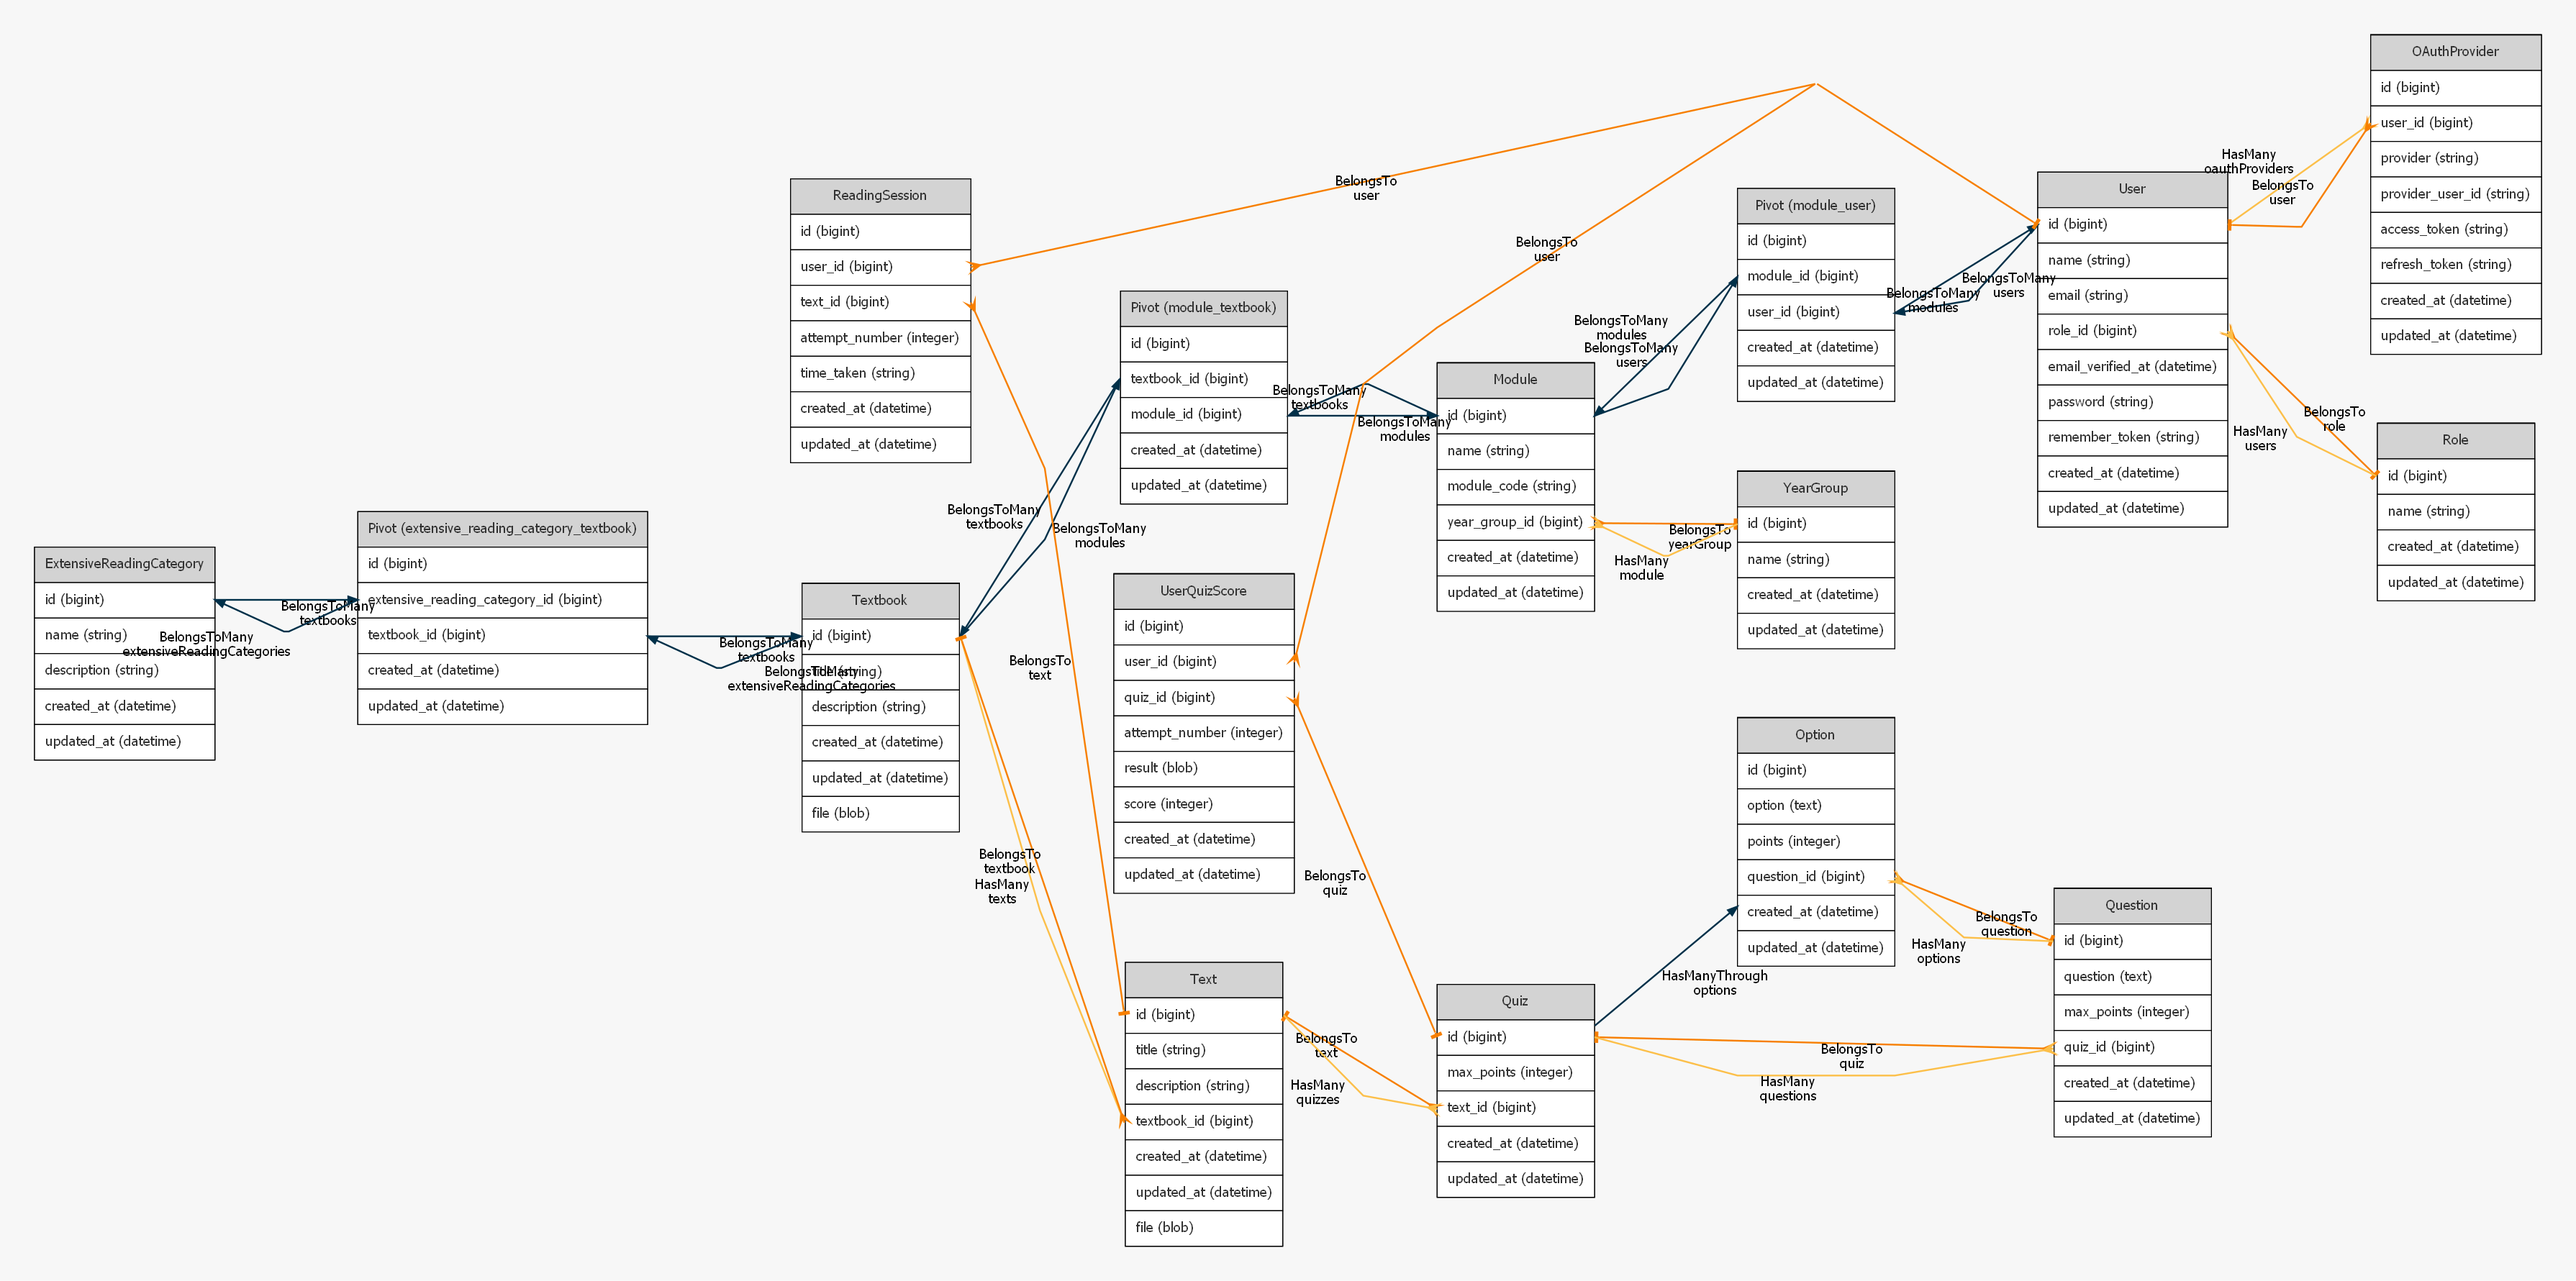
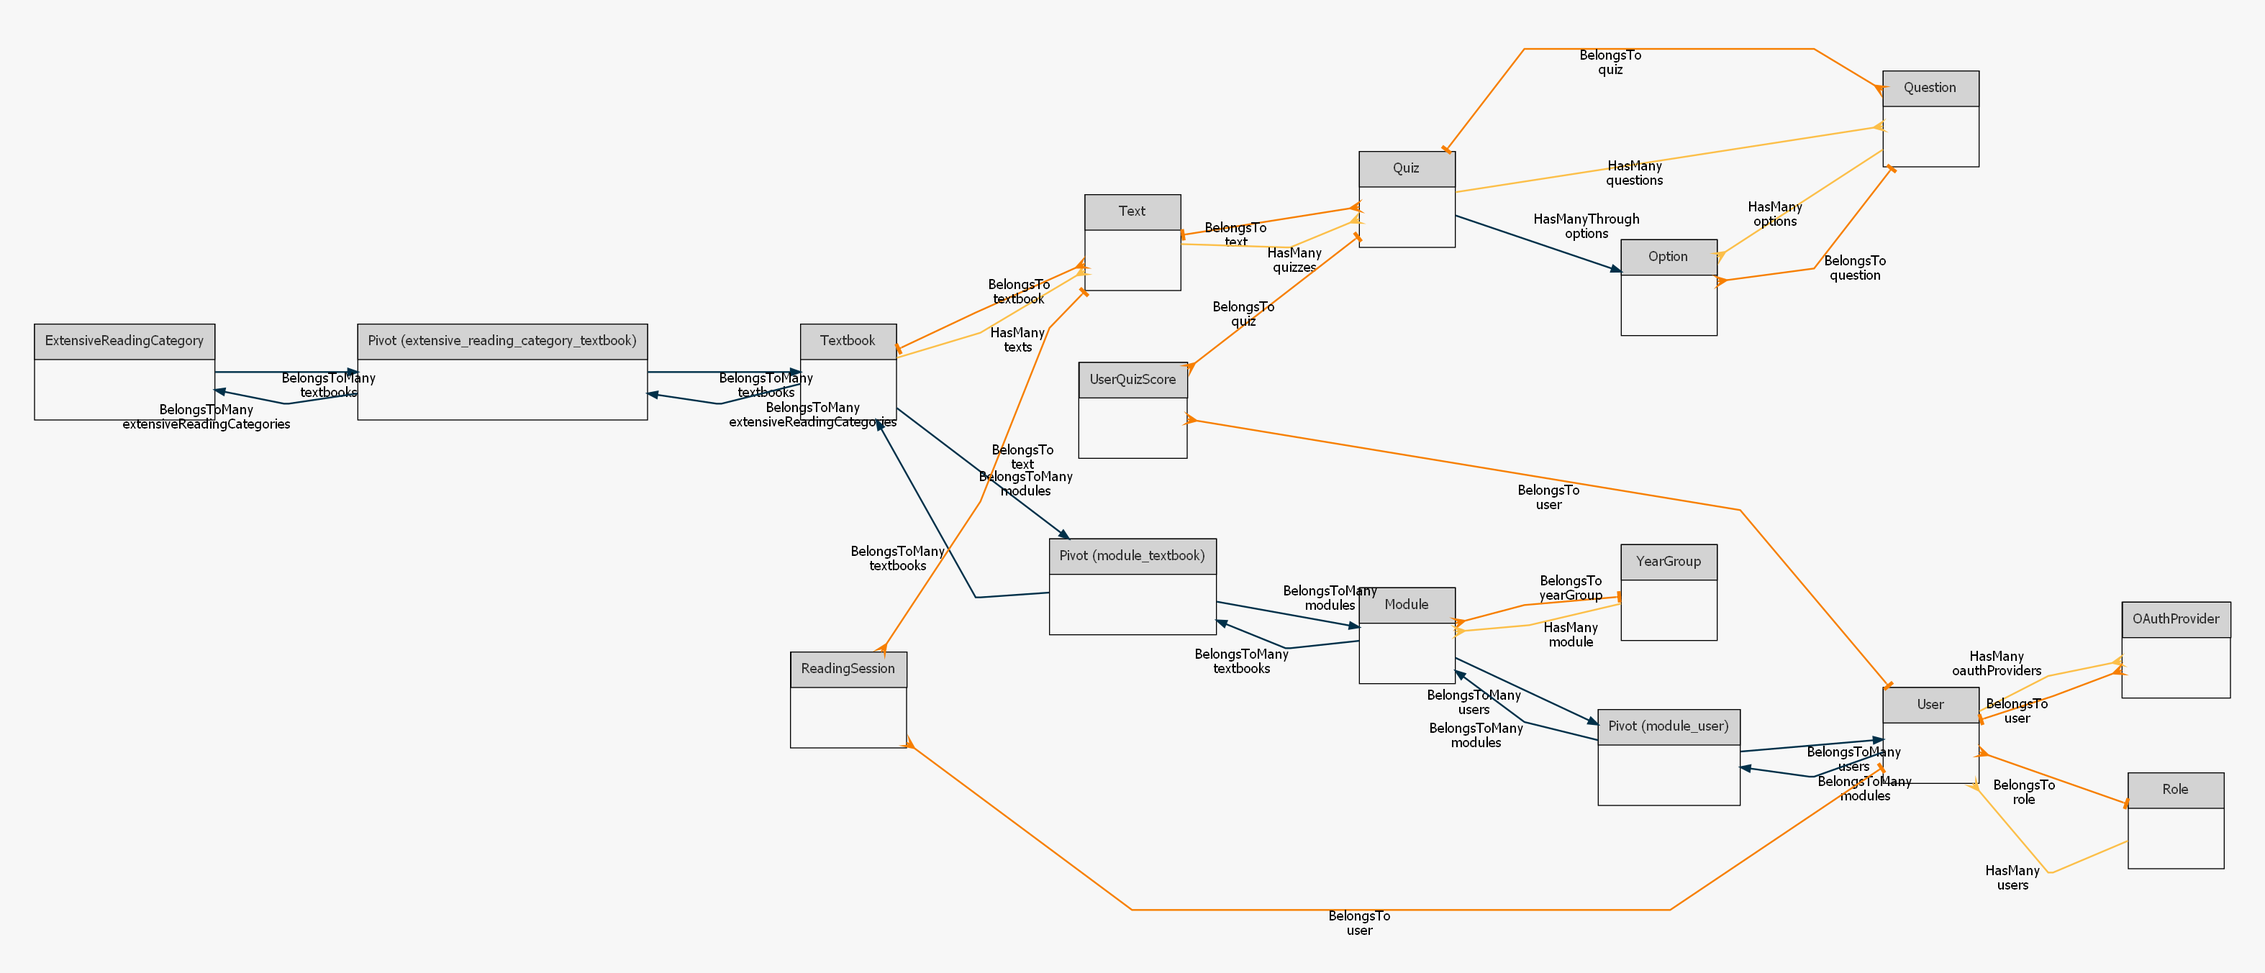
Added ERD diagram and improve table responsiveness and quiz id not shown in url

diff --git a/resources/js/pages/readingQuizScores.vue b/resources/js/pages/readingQuizScores.vue
@@ -15,7 +15,7 @@
                 </option>
             </select>
             </div>
-            <table class="table table-responsive">
+            <table class="table table-responsive-lg">
                 <thead>
                 <tr>
                     <th scope="col" v-if="role==='Admin' || role==='Module Tutor'">Student</th>
@@ -59,7 +59,7 @@
                     </option>
                 </select>
             </div>
-            <table class="table table-responsive">
+            <table class="table table-responsive-lg">
                 <thead>
                 <tr>
                     <th scope="col" v-if="role==='Admin' || role==='Module Tutor'">Student</th>

diff --git a/resources/js/router/routes.js b/resources/js/router/routes.js
@@ -44,7 +44,7 @@ export default [
     { path: '/admin/users/edit/:id', name: 'admin.users.edit', component: page('admin/edit.vue') },
     { path: '/admin/users/update/:id', name: 'admin.users.update', component: page('admin/edit.vue') },
 
-    { path: '/quiz/view/:id', name: 'quiz.show', component: page('quiz/view.vue') },
+    { path: '/quiz', name: 'quiz.show', component: page('quiz/view.vue') },
 
   { path: '/home', name: 'home', component: page('home.vue') },
   { path: '/settings',
